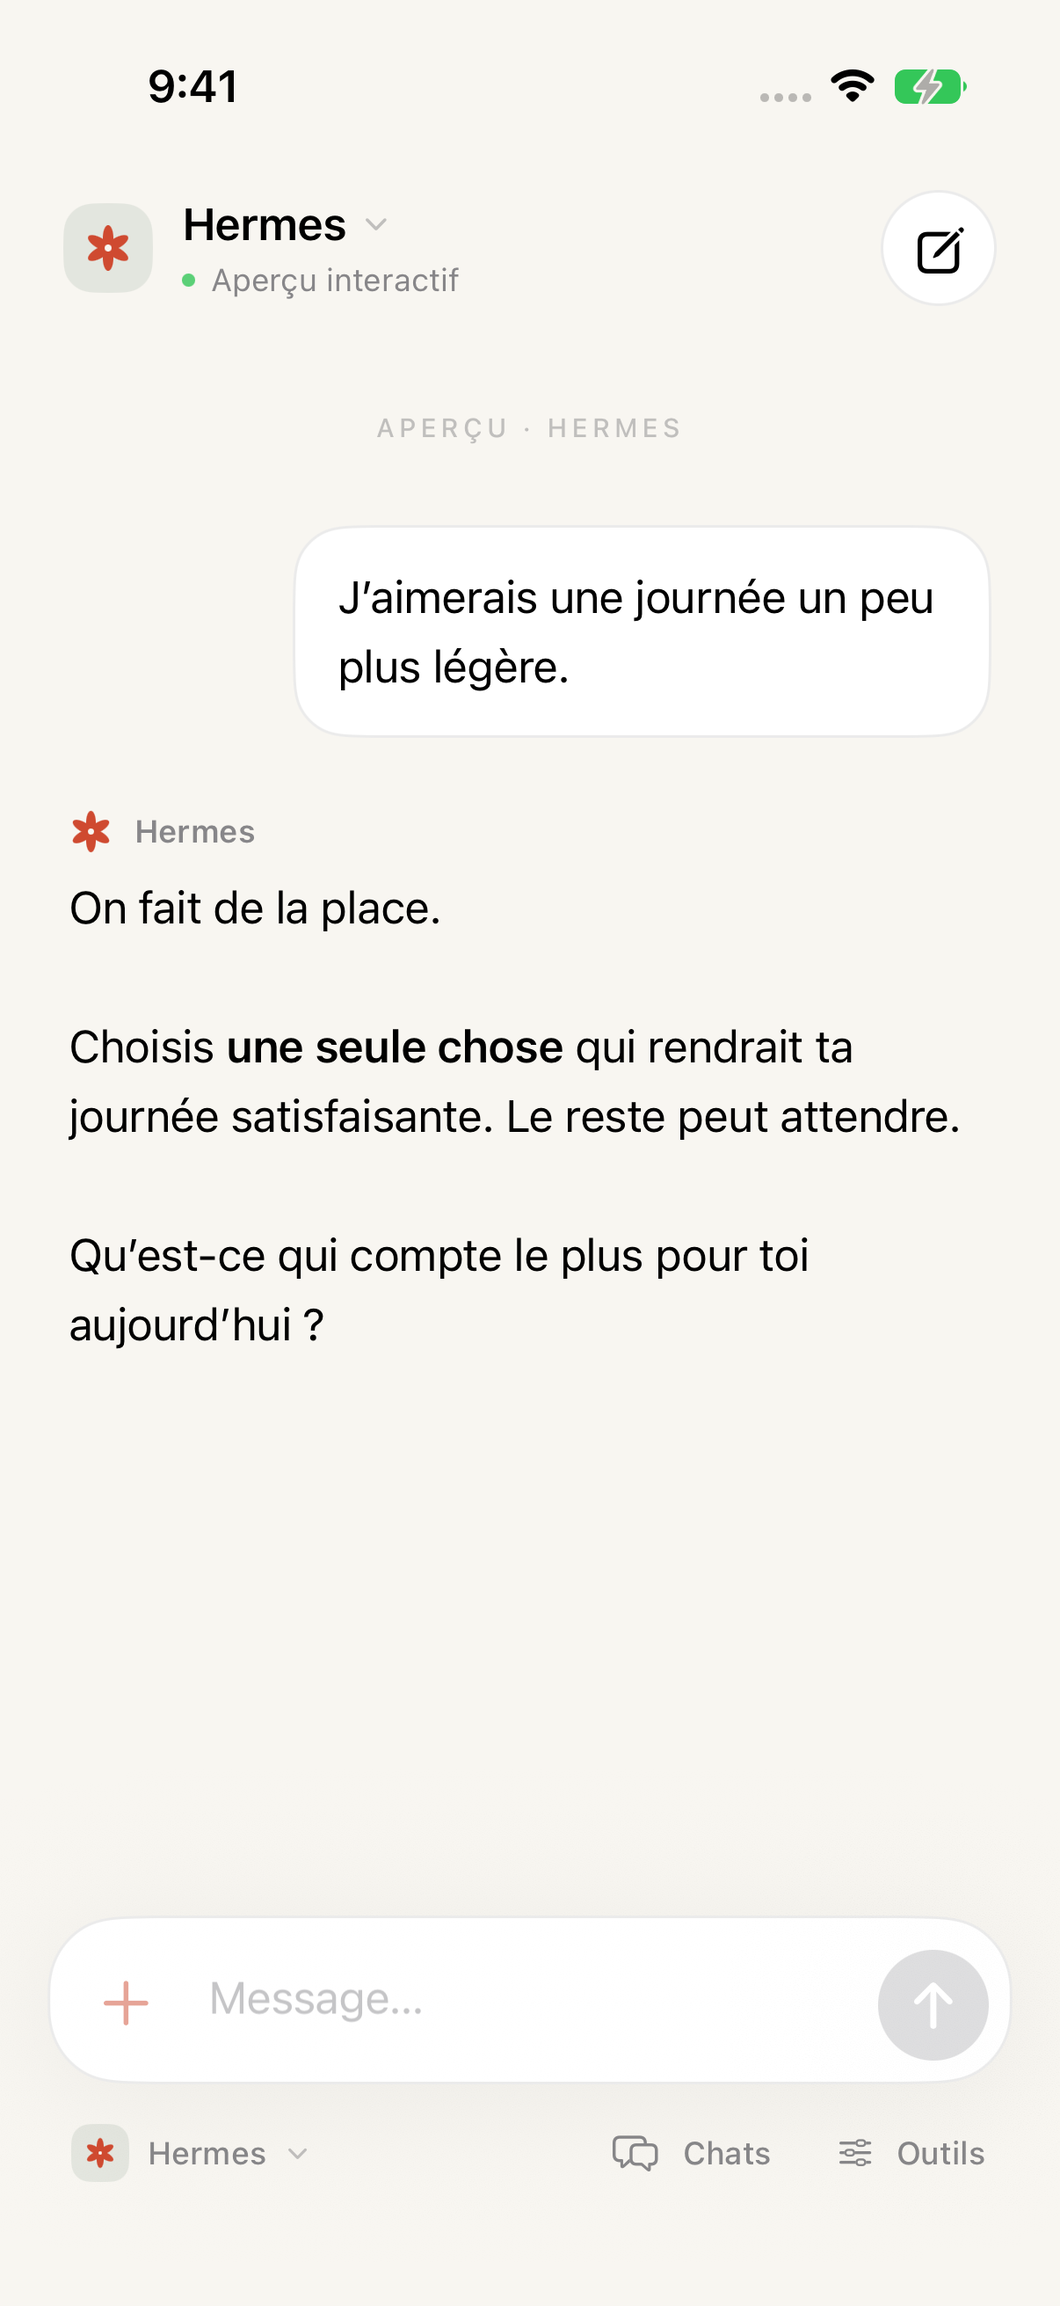
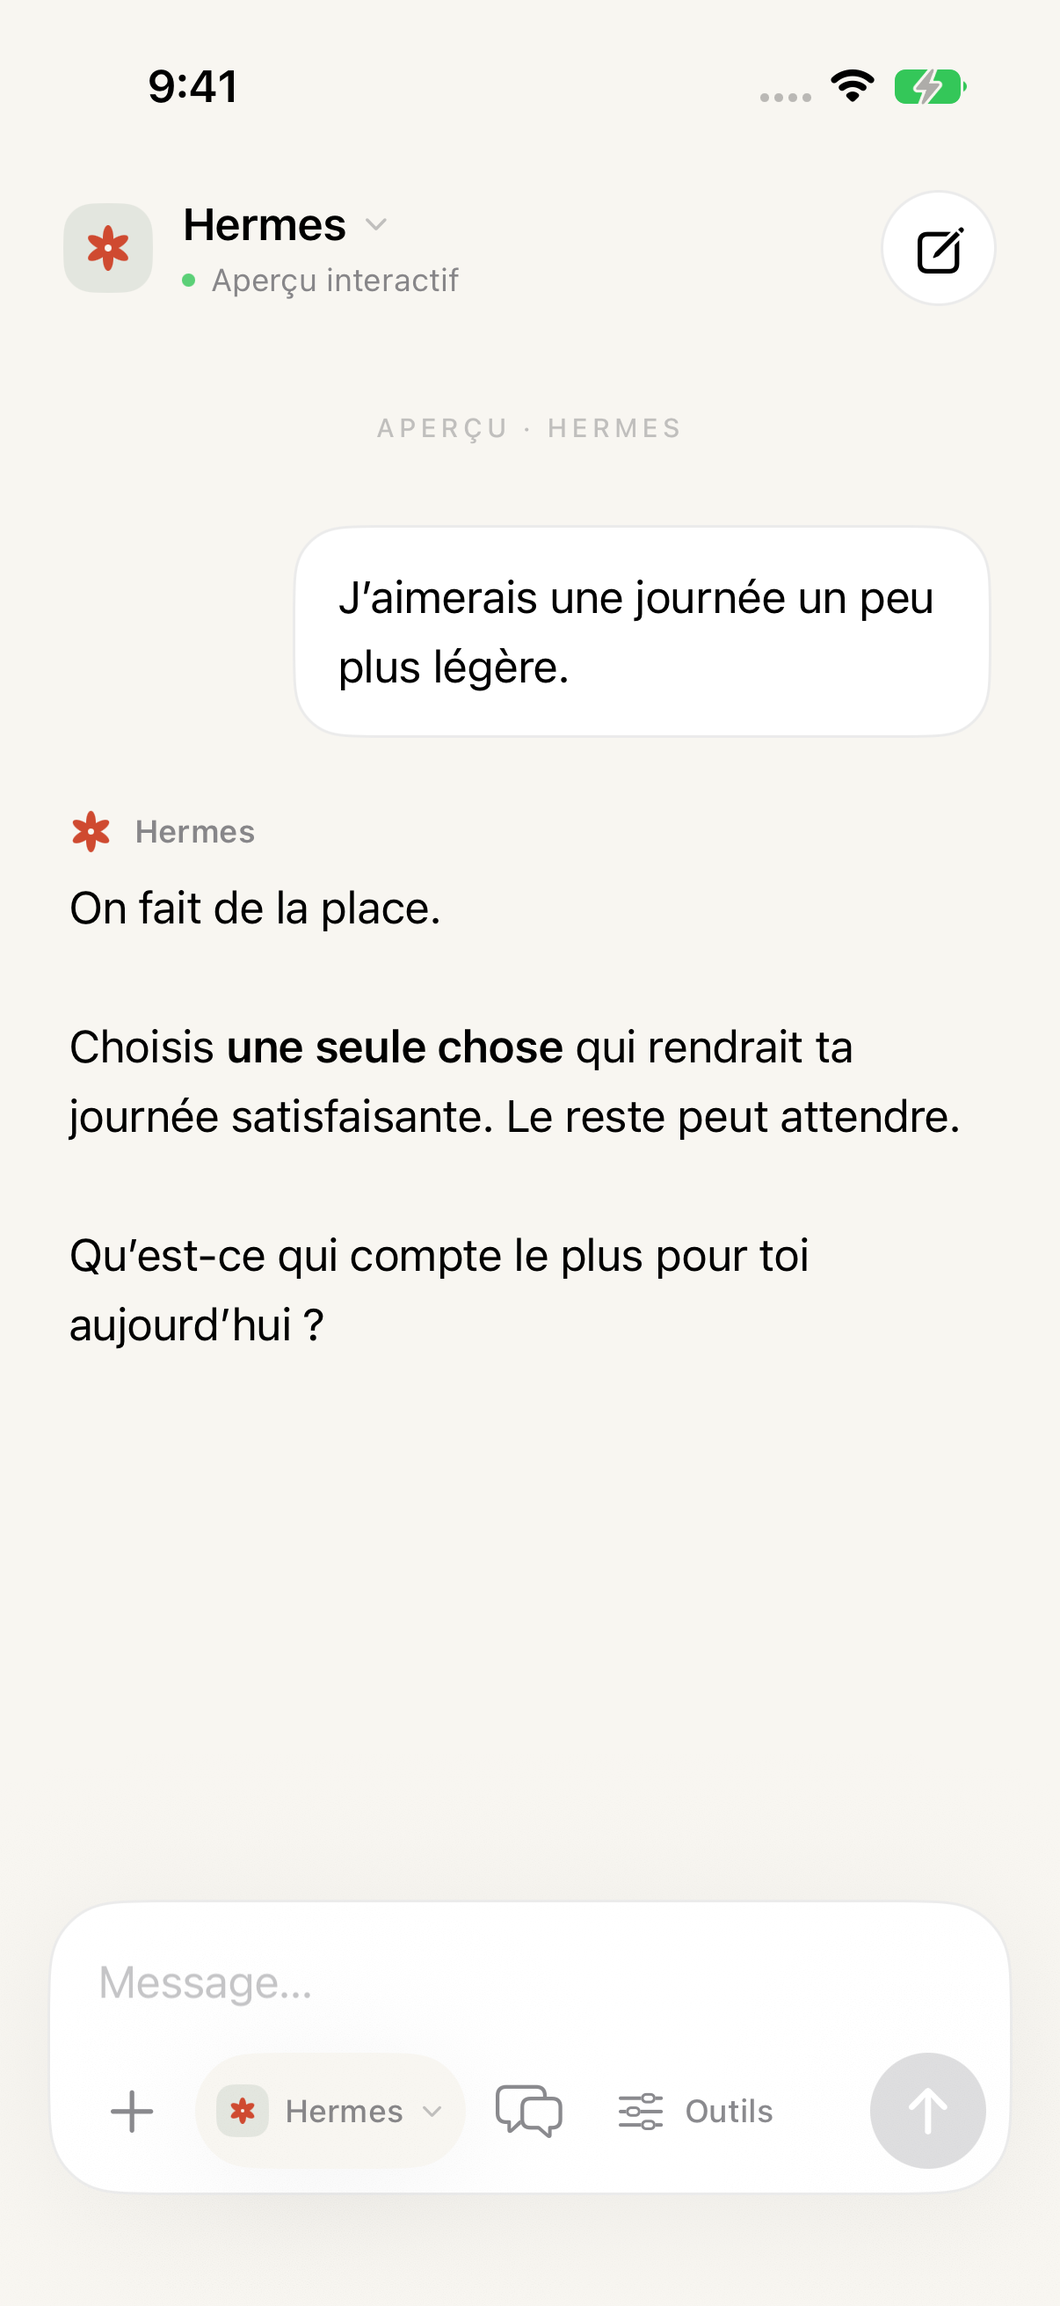
Integrate chat controls into a single composer bubble

diff --git a/HermesIOS/Features/ChatView.swift b/HermesIOS/Features/ChatView.swift
@@ -148,60 +148,85 @@ struct ChatView: View {
                     }
                 }
             }
-            HStack(alignment: .bottom, spacing: 10) {
-                Menu {
-                    Button("Dicter un message", systemImage: "waveform") { present(.voice) }
-                    Button("Mentionner un agent", systemImage: "at") { model.draft += "@"; focused = true }
-                    Button("Nouvelle conversation", systemImage: "square.and.pencil") { model.newChat(); focused = true }
-                } label: {
-                    Image(systemName: "plus").font(.system(size: 21, weight: .regular))
-                        .foregroundStyle(.secondary).frame(width: 42, height: 44)
-                }.accessibilityLabel("Actions du message")
+            VStack(alignment: .leading, spacing: 4) {
                 TextField("Message…", text: $model.draft, axis: .vertical)
-                    .lineLimit(1...7).font(.body).padding(.vertical, 12).focused($focused)
+                    .lineLimit(1...7).font(.body).focused($focused)
+                    .padding(.horizontal, 9).padding(.vertical, 8).frame(minHeight: 44)
                     .accessibilityIdentifier("chat-composer")
-                Button {
-                    Task {
-                        if model.transcript.running { await model.interrupt() }
-                        else { await model.send() }
+                HStack(spacing: 6) {
+                    ViewThatFits(in: .horizontal) {
+                        composerShortcuts(showToolTitle: true, compactProfile: false)
+                        composerShortcuts(showToolTitle: false, compactProfile: false)
+                        composerShortcuts(showToolTitle: false, compactProfile: true)
                     }
-                } label: {
-                    Image(systemName: model.transcript.running ? "stop.fill" : "arrow.up")
-                        .font(.system(size: model.transcript.running ? 13 : 19, weight: .semibold))
-                        .foregroundStyle(.white).frame(width: 42, height: 42)
-                        .background(model.canSend || model.transcript.running ? AppTheme.accent : Color.secondary.opacity(0.28), in: Circle())
-                }.disabled(!model.canSend && !model.transcript.running)
-                    .accessibilityLabel(model.transcript.running ? "Arrêter la réponse" : "Envoyer")
-                    .accessibilityIdentifier("send-message")
-            }.padding(9).background(AppTheme.surface, in: RoundedRectangle(cornerRadius: 28))
+                    Spacer(minLength: 0)
+                    sendButton
+                }
+            }.padding(10)
+                .background(AppTheme.surface, in: RoundedRectangle(cornerRadius: 28))
                 .overlay(RoundedRectangle(cornerRadius: 28).strokeBorder(AppTheme.line))
                 .shadow(color: .black.opacity(0.045), radius: 22, y: 6)
-            navigationShortcuts.padding(.top, 4)
-        }.padding(.horizontal, 18).padding(.top, 10).padding(.bottom, 2).frame(maxWidth: 750).frame(maxWidth: .infinity)
+                .accessibilityElement(children: .contain)
+                .accessibilityIdentifier("composer-surface")
+        }.padding(.horizontal, 18).padding(.top, 10).padding(.bottom, 8).frame(maxWidth: 750).frame(maxWidth: .infinity)
             .background(AppTheme.background)
     }
 
-    private var navigationShortcuts: some View {
-        HStack(spacing: 4) {
+    private var messageActions: some View {
+        Menu {
+            Button("Dicter un message", systemImage: "waveform") { present(.voice) }
+            Button("Mentionner un agent", systemImage: "at") { model.draft += "@"; focused = true }
+            Button("Nouvelle conversation", systemImage: "square.and.pencil") { model.newChat(); focused = true }
+        } label: {
+            Image(systemName: "plus").font(.system(size: 20, weight: .regular))
+                .foregroundStyle(.secondary).frame(width: 44, height: 44)
+        }.accessibilityLabel("Actions du message").accessibilityIdentifier("message-actions")
+    }
+
+    private func composerShortcuts(showToolTitle: Bool, compactProfile: Bool) -> some View {
+        HStack(spacing: 2) {
+            messageActions
             Button { present(.profiles) } label: {
-                HStack(spacing: 7) {
-                    AgentAvatar(name: model.agent?.name ?? "default", size: 22)
-                    Text(model.agent?.title ?? "Hermes").lineLimit(1)
-                    Image(systemName: "chevron.down").font(.system(size: 8, weight: .semibold)).foregroundStyle(.tertiary)
-                }.padding(.horizontal, 9).frame(height: 44).contentShape(Capsule())
+                HStack(spacing: 6) {
+                    AgentAvatar(name: model.agent?.name ?? "default", size: 20)
+                    if !compactProfile {
+                        Text(model.agent?.title ?? "Hermes").lineLimit(1).frame(maxWidth: 85)
+                        Image(systemName: "chevron.down").font(.system(size: 8, weight: .semibold)).foregroundStyle(.tertiary)
+                    }
+                }.padding(.horizontal, 8).frame(minWidth: 44, minHeight: 44)
+                    .background(AppTheme.background, in: Capsule())
             }.accessibilityLabel("Changer de profil : \(model.agent?.title ?? "Hermes")")
                 .accessibilityIdentifier("switch-profile")
-            Spacer(minLength: 0)
             Button { present(.history) } label: {
-                Label("Chats", systemImage: "bubble.left.and.bubble.right")
-                    .padding(.horizontal, 10).frame(height: 44).contentShape(Capsule())
+                Image(systemName: "bubble.left.and.bubble.right").font(.system(size: 18))
+                    .frame(width: 44, height: 44)
             }.accessibilityLabel("Conversations du profil actif").accessibilityIdentifier("quick-history")
             Button { present(.spaces) } label: {
-                Label("Outils", systemImage: "slider.horizontal.3")
-                    .padding(.horizontal, 10).frame(height: 44).contentShape(Capsule())
+                HStack(spacing: 6) {
+                    Image(systemName: "slider.horizontal.3").font(.system(size: 17))
+                    if showToolTitle { Text("Outils") }
+                }.padding(.horizontal, showToolTitle ? 8 : 0).frame(minWidth: 44, minHeight: 44)
             }.accessibilityLabel("Outils").accessibilityIdentifier("app-navigation")
         }.font(.caption.weight(.medium)).foregroundStyle(.secondary).buttonStyle(.plain)
+            .fixedSize(horizontal: true, vertical: false)
     }
+
+    private var sendButton: some View {
+        Button {
+            Task {
+                if model.transcript.running { await model.interrupt() }
+                else { await model.send() }
+            }
+        } label: {
+            Image(systemName: model.transcript.running ? "stop.fill" : "arrow.up")
+                .font(.system(size: model.transcript.running ? 13 : 19, weight: .semibold))
+                .foregroundStyle(.white).frame(width: 44, height: 44)
+                .background(model.canSend || model.transcript.running ? AppTheme.accent : Color.secondary.opacity(0.28), in: Circle())
+        }.disabled(!model.canSend && !model.transcript.running)
+            .accessibilityLabel(model.transcript.running ? "Arrêter la réponse" : "Envoyer")
+            .accessibilityIdentifier("send-message")
+    }
+
 }
 
 struct CredentialCard: View {

diff --git a/HermesIOSUITests/HermesIOSUITests.swift b/HermesIOSUITests/HermesIOSUITests.swift
@@ -12,6 +12,7 @@ final class HermesIOSUITests: XCTestCase {
         XCTAssertGreaterThan(app.buttons["app-navigation"].frame.minY, app.windows.firstMatch.frame.maxY - 130)
         XCTAssertLessThan(app.windows.firstMatch.frame.maxY - app.textFields["chat-composer"].frame.maxY, 130)
         XCTAssertGreaterThan(app.buttons["switch-profile"].frame.minY, app.textFields["chat-composer"].frame.maxY)
+        assertControlsInsideComposer(in: app)
         capture("01-chat")
         openNavigation("Agents", in: app)
         XCTAssertTrue(app.staticTexts["Vos agents."].waitForExistence(timeout: 3))
@@ -44,6 +45,8 @@ final class HermesIOSUITests: XCTestCase {
         let composer = app.textFields["chat-composer"]
         XCTAssertTrue(composer.waitForExistence(timeout: 10))
         composer.tap(); composer.typeText("Mon brouillon reste ici")
+        assertControlsInsideComposer(in: app)
+        capture("13-composer-keyboard")
         openNavigation("Agents", in: app)
         XCTAssertTrue(app.buttons["return-to-chat"].waitForExistence(timeout: 3))
         app.buttons["return-to-chat"].tap()
@@ -238,5 +241,15 @@ final class HermesIOSUITests: XCTestCase {
         let attachment = XCTAttachment(screenshot: screenshot)
         attachment.name = name; attachment.lifetime = .keepAlways
         add(attachment)
+    }
+
+    private func assertControlsInsideComposer(in app: XCUIApplication) {
+        let surface = app.otherElements["composer-surface"]
+        XCTAssertTrue(surface.exists)
+        for identifier in ["message-actions", "switch-profile", "quick-history", "app-navigation", "send-message"] {
+            let control = app.buttons[identifier]
+            XCTAssertTrue(control.exists)
+            XCTAssertTrue(surface.frame.contains(control.frame), "\(identifier) belongs inside the composer bubble")
+        }
     }
 }

diff --git a/docs/ARCHITECTURE.md b/docs/ARCHITECTURE.md
@@ -21,9 +21,9 @@ Saved chats and drafts render before the network is contacted. The socket stays 
 
 The view keeps stable message identities during hydration and follows the last message only while the reader is near the bottom. A tiny connection indicator reports availability; there is no full-screen sync overlay or forced clearing of chat. The composer remains editable offline.
 
-Chat is the persistent root screen. Three lightweight shortcuts below its floating composer separate profile switching, conversation history and tools. The profile picker highlights the active agent, leaves the current conversation untouched when that agent is selected, and opens another agent’s native canonical Bot Chat in two taps. Agent management is a separate explicit action. Tools starts as a compact native sheet filtered to Work (Kanban, routines, workspace); Agent contains skills, models, voice and groups, and All plus global search keeps every destination discoverable. Tool pages expand to full height; returning restores the filtered picker. A shared ToolDock combines navigation and each tool’s primary action in one row. Opening tools never remounts the chat.
+Chat is the persistent root screen. The composer is one rounded surface: a full-width text field above an integrated control row for message actions, profile switching, chat history, tools and send/stop. There is no navigation row outside the bubble. The controls adapt to narrow widths by dropping the Tools label and then the profile name, keeping labeled accessibility actions and 44-point hit targets. The profile picker highlights the active agent, leaves the current conversation untouched when that agent is selected, and opens another agent’s native canonical Bot Chat in two taps. Agent management is a separate explicit action. Tools starts as a compact native sheet filtered to Work (Kanban, routines, workspace); Agent contains skills, models, voice and groups, and All plus global search keeps every destination discoverable. Tool pages expand to full height; returning restores the filtered picker. A shared ToolDock combines navigation and each tool’s primary action in one row. Opening tools never remounts the chat.
 
-The design separates stable navigation destinations from message actions, following Apple’s [tab bar guidance](https://developer.apple.com/design/human-interface-guidelines/tab-bars). Native [sheets](https://developer.apple.com/design/human-interface-guidelines/sheets) preserve the underlying conversation while choosing an agent or tool. The composer’s plus menu contains dictation, mentions and new-chat actions.
+The design separates stable navigation destinations from message actions, following Apple’s [tab bar guidance](https://developer.apple.com/design/human-interface-guidelines/tab-bars). Native [sheets](https://developer.apple.com/design/human-interface-guidelines/sheets) preserve the underlying conversation while choosing an agent or tool. The composer’s plus menu contains dictation, mentions and new-chat actions. Visual references for the two-level input layout: [ChatGPT iOS](https://community.openai.com/t/i-need-help-urgently-my-microphone-icon-disppeared/1137756), [Claude iOS](https://www.tomsguide.com/ai/claudes-free-voice-mode-has-landed-heres-how-to-access-it), and [Gemini iOS](https://gigazine.net/news/20241115-gemini-iphone-app/).
 
 Native tools capture connection ID and profile when opened. AppModel checks both before requests and checks the connection generation again after each response. Read results are cached in memory by connection/profile/resource/query and revalidated without clearing existing rows. A load generation prevents a superseded board request from replacing the selected board. Kanban passes an explicit board slug and never changes Hermes’ global current-board pointer; visible boards refresh every eight seconds and stop polling when inactive.
 

diff --git a/docs/VALIDATION.md b/docs/VALIDATION.md
@@ -4,16 +4,17 @@
 | --- | --- |
 | Foundation core suite | 22 tests passed, including reverse-proxy tool query scoping |
 | Offline iOS UI suite | 5 tests passed: chat/agents/settings, onboarding, draft preservation, filtered tool discovery and quick profile switching |
+| Integrated composer | 2 focused UI tests passed: all controls inside the bubble, keyboard layout, navigation and draft preservation |
 | Official Hermes protocol probe | 13 checks passed, including auth, live replay, canonical Bot Chat, profile isolation, routines and hosted groups |
 | Native tools probe | Passed: skills list/content/toggle isolation, workspace isolation, model assignment isolation, Kanban triage creation and idempotency |
 | Native iOS integration | Passed: sign-in, persisted auth, streaming and resume; skill toggling, profile model/workspace/board reads from iOS |
-| Release device build | Development-signed ARM64 build 6 succeeded; installed on iPhone 16 Plus |
+| Release device build | Development-signed ARM64 build 7 succeeded; installed on iPhone 16 Plus |
 
 The integration backend is the official, unmodified Hermes Agent **0.21.2**, commit `b7b35a84b7fbe1aa2e223a6ce726a2471300d0a4`, in an isolated home. Only inference uses a deterministic local fixture. Production agent data and credentials are excluded from automated tests and screenshots.
 
 UI tests use a dedicated iPhone 17 Pro simulator on iOS 27 with Xcode 27 (`27A5218g`). The application targets iOS 17; older OS versions have not been exercised. The physical iPhone 16 Plus also runs iOS 27. Installation preserves existing app data. The user confirmed the native private-HTTP/Tailscale connection after the ATS correction in the earlier build.
 
-The app is approximately **6.0 MB**, unpacked and development-signed, with no third-party runtime packages. This is not an App Store download-size measurement.
+The app is approximately **6.1 MB**, unpacked and development-signed, with no third-party runtime packages. This is not an App Store download-size measurement.
 
 Audio tests validate the authenticated native routes and payload validation without calling STT/TTS providers. Real microphone capture and speech-provider quality still require a manual device check. Continuous voice conversation remains outside this release.
 

diff --git a/README.md b/README.md
@@ -16,7 +16,7 @@ Hermès iOS connects directly to [Hermes Agent](https://github.com/NousResearch/
 - Direct connection to the official `hermes serve` backend, including Tailscale IPs, MagicDNS, HTTPS and reverse-proxy path prefixes.
 - Native password authentication, session credentials in the iOS Keychain, fresh single-use WebSocket tickets, and the existing legacy session-token path.
 - Streaming chat, Markdown and code blocks, copy/share, tool activity, cancellation, approvals, clarification and secret input.
-- Thumb-first navigation: profile, Chats and Tools shortcuts sit directly below the floating composer. Switch profiles in two taps, open conversation history directly, and filter tools by Work or Agent. Global tool search stays available; chat and drafts remain in place.
+- Thumb-first navigation: profile, chat history and tool shortcuts share a control row inside the floating composer, below a full-width text field. Switch profiles in two taps, open conversation history directly, and filter tools by Work or Agent. Global tool search stays available; chat and drafts remain in place.
 - Cached conversations and per-chat drafts stay visible while reconnecting. Ordered replay deduplicates missing events. Uncertain sends are never automatically repeated.
 - Multiple saved gateways and isolated Hermes profiles.
 - Bot roster, existing canonical **Bot Chats**, profile creation/cloning, description and SOUL editing, and `@profile` suggestions.
@@ -31,7 +31,7 @@ Hermès iOS connects directly to [Hermes Agent](https://github.com/NousResearch/
 
 The first UI is in French. Contributions for localization are welcome.
 
-Current device build: approximately **6.0 MB**, unpacked and development-signed. [Validation results](docs/VALIDATION.md).
+Current device build: approximately **6.1 MB**, unpacked and development-signed. [Validation results](docs/VALIDATION.md).
 
 ## Run
 

diff --git a/docs/TESTING.md b/docs/TESTING.md
@@ -15,7 +15,7 @@ xcodebuild -scheme HermesIOS \
   -destination 'platform=iOS Simulator,name=iPhone 17 Pro' test
 ```
 
-Choose an installed simulator. The regular suite runs offline previews, captures welcome/chat/agents/settings/connection screenshots, checks shortcuts below the composer with no tab bar, verifies draft preservation through navigation and sheet dismissal, and exercises Work/Agent tool filters plus global tool search. A dedicated test switches profiles from the bottom picker, checks that selecting the active agent preserves the chat, and verifies separate drafts when returning to each demo Bot Chat. Native integration is skipped in this scheme. Keep code signing enabled for Keychain tests. Do not run competing XCUITest processes on the same simulator.
+Choose an installed simulator. The regular suite runs offline previews, captures welcome/chat/agents/settings/connection screenshots, checks that all navigation and message controls stay inside the composer bubble, including with the keyboard open, with no tab bar, verifies draft preservation through navigation and sheet dismissal, and exercises Work/Agent tool filters plus global tool search. A dedicated test switches profiles from the bottom picker, checks that selecting the active agent preserves the chat, and verifies separate drafts when returning to each demo Bot Chat. Native integration is skipped in this scheme. Keep code signing enabled for Keychain tests. Do not run competing XCUITest processes on the same simulator.
 
 If your simulator runtime belongs to a second Xcode installation, select it for the command with `DEVELOPER_DIR=/Applications/Xcode-beta.app/Contents/Developer` rather than changing the machine-wide selection.
 
